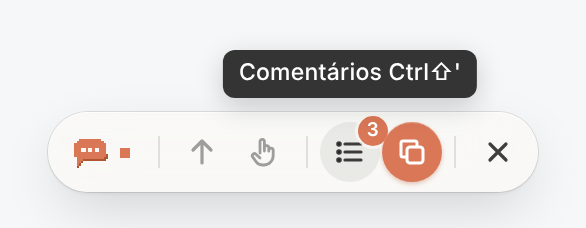
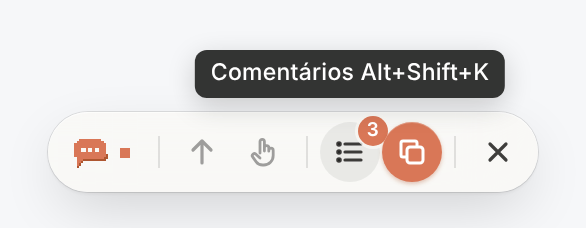
Usa ⌘/Alt + ⇧ + E e K, livres no Chrome e em todos os sistemas
O atalho da lista com L esbarrava no ChromeOS (Alt+Shift+L foca o
inicializador). No Mac, ⌥ Option não é a tecla ao lado do espaço: quem
aperta a tecla "alt/cmd" manda ⌘, e ⌘⇧D/⌘⇧L já são do Chrome.

- Atalhos: ⌘ no Mac e Alt no Windows/Linux/ChromeOS, sempre a tecla ao
  lado da barra de espaço, + ⇧ + E (modo anotação) e + ⇧ + K (lista).
  E e K estão livres no Chrome (Mac, Windows, Linux), no macOS e no
  ChromeOS, conferido no código-fonte do Chromium
- A página só trata o atalho padrão se o Chrome não conseguiu registrá-lo
  na instalação; se a pessoa apagar o atalho de propósito, ele some da
  interface em vez de continuar ativo
- Segurar Alt e depois apertar Shift desliga o modo temporário, para ele
  não piscar na tela ao usar o atalho
- Menus do ícone e página de histórico acompanham o atalho configurado
- README e imagem da barra de ações atualizados; testes cobrem o registro
  dos atalhos, as dicas da barra e o histórico

Claude-Session: https://claude.ai/code/session_01XS7tuJX1NCr2q9g3ooZEzE

Changed region(s): [[0.3072, 0.2149, 0.8601, 0.4298]]

diff --git a/src/content/main.js b/src/content/main.js
@@ -22,7 +22,7 @@
   const S = {
     alive: true,
     active: false,
-    shortcuts: null, // { toggle, panel } configurados no Chrome ('' = sem atalho)
+    shortcuts: null, // { toggle, panel, fallback } configurados no Chrome ('' = sem atalho)
     relink: null, // { id, wasActive, banner } enquanto escolhe um novo elemento para um comentário
     momentary: false, // ativo só enquanto a tecla de "segurar para comentar" está pressionada
     endMomentaryAfterComposer: false,
@@ -114,7 +114,7 @@
     if (isOwn(e)) {
       e.stopPropagation();
       if (e.type === 'focus' || e.type === 'blur' || e.type.startsWith('touch')) return;
-      // atalhos (Alt+Shift+E sem comando registrado, Esc…) continuam sendo tratados pelos nossos listeners do window
+      // atalhos (padrão sem comando registrado, Esc…) continuam sendo tratados pelos nossos listeners do window
       cloneInsideShadow(e, e.composedPath()[0]);
       return;
     }
@@ -702,6 +702,13 @@
     return k === 'Shift' ? '⇧ Shift' : '';
   }
 
+  function howToActivateHtml() {
+    const ways = [];
+    if (shortcutLabel('toggle')) ways.push(`com ${PN.shortcutHtml(shortcutLabel('toggle'))}`);
+    if (holdKeyName()) ways.push(`segurando <kbd>${holdKeyLabel()}</kbd>`);
+    return ways.length ? ways.join(' ou ') : 'pelo ícone da extensão';
+  }
+
   function isEditable(el) {
     if (!el) return false;
     return el.isContentEditable || /^(INPUT|TEXTAREA|SELECT)$/.test(el.tagName);
@@ -711,11 +718,7 @@
   // Os atalhos principais são comandos do Chrome (manifest → commands), tratados pelo service
   // worker. Aqui só mostramos o atalho configurado e, se o Chrome não tiver conseguido
   // registrá-lo (ex.: outra extensão já usa a combinação), tratamos o padrão na própria página.
-  function shortcutLabel(kind) {
-    const sc = S.shortcuts && S.shortcuts[kind];
-    if (sc) return sc;
-    return IS_MAC ? PN.SHORTCUTS[kind].mac : PN.SHORTCUTS[kind].other;
-  }
+  const shortcutLabel = (kind) => PN.shortcutLabel(S.shortcuts, kind);
 
   async function loadShortcuts() {
     try {
@@ -731,9 +734,10 @@
   }
 
   function isToggleShortcut(e) {
-    if (!S.shortcuts || !e.altKey || !e.shiftKey || e.ctrlKey || e.metaKey) return null;
-    if (!S.shortcuts.toggle && e.code === PN.SHORTCUTS.toggle.code) return 'mode';
-    if (!S.shortcuts.panel && e.code === PN.SHORTCUTS.panel.code) return 'panel';
+    const fb = S.shortcuts && S.shortcuts.fallback;
+    if (!fb) return null;
+    if (fb.toggle && PN.isDefaultShortcut(e, 'toggle')) return 'mode';
+    if (fb.panel && PN.isDefaultShortcut(e, 'panel')) return 'panel';
     return null;
   }
 
@@ -753,8 +757,11 @@
         S.holdTimer = setTimeout(startMomentary, HOLD_DELAY);
       }
       if (S.momentary) e.preventDefault();
-    } else if (S.holdPending && e.key !== holdKeyName()) {
-      cancelHold(); // outra tecla junto: é um atalho, não um "segurar"
+    } else if (e.key !== holdKeyName()) {
+      if (S.holdPending) cancelHold(); // outra tecla junto: é um atalho, não um "segurar"
+      // Alt + Shift depois de já ter ativado o "segurar": é o começo de um atalho (ex.: Alt+Shift+K),
+      // então desliga o modo temporário em vez de deixá-lo piscar na tela.
+      else if (S.momentary && !S.composer && (e.key === 'Alt' || e.key === 'Shift')) endMomentary();
     }
     if (e.key === 'Control' || e.key === 'Meta') setPassthrough(true);
     const shortcut = isToggleShortcut(e);
@@ -1336,8 +1343,9 @@
     }
     toolbarEl.classList.toggle('is-passthrough', S.passthrough);
     const panelBtn = toolbarEl.querySelector('[data-act=panel]');
-    panelBtn.dataset.tip = `Comentários  ${shortcutLabel('panel')}`;
-    toolbarEl.querySelector('[data-act=exit]').dataset.tip = `Sair  ${shortcutLabel('toggle')} ou Esc`;
+    const withKey = (text, key) => (key ? `${text}  ${key}` : text);
+    panelBtn.dataset.tip = withKey('Comentários', shortcutLabel('panel'));
+    toolbarEl.querySelector('[data-act=exit]').dataset.tip = withKey('Sair', [shortcutLabel('toggle'), 'Esc'].filter(Boolean).join(' ou '));
     const size = S.settings.toolbarSize;
     toolbarEl.classList.toggle('tb-size-m', size === 'medium');
     toolbarEl.classList.toggle('tb-size-l', size === 'large');
@@ -1445,7 +1453,7 @@
     P.t2.textContent = PN.prettyUrl(location.href);
     P.modeBtn.className = 'btn sm' + (S.active ? ' primary' : '');
     P.modeBtn.innerHTML = `${PN.icons.cursor} ${S.active ? 'Anotando' : 'Anotar'}`;
-    P.modeBtn.title = `${S.active ? 'Desativar' : 'Ativar'} modo anotação (${shortcutLabel('toggle')})`;
+    P.modeBtn.title = `${S.active ? 'Desativar' : 'Ativar'} modo anotação` + (shortcutLabel('toggle') ? ` (${shortcutLabel('toggle')})` : '');
 
     const tabDefs = [
       ['open', 'Abertos', openCount],
@@ -1504,7 +1512,7 @@
           svg(PN.icons.bubble(40, 'big')),
           h('div', null, msg),
           S.panelTab !== 'resolved' && !S.search
-            ? h('div', { html: `Ative o modo anotação com ${PN.shortcutHtml(shortcutLabel('toggle'))}${holdKeyName() ? ` ou segure <kbd>${holdKeyLabel()}</kbd>` : ''} e clique em um elemento.` })
+            ? h('div', { html: `Ative o modo anotação ${howToActivateHtml()} e clique em um elemento.` })
             : null
         )
       );

diff --git a/src/background/service-worker.js b/src/background/service-worker.js
@@ -65,16 +65,29 @@ function flashBadge(tabId, text) {
 
 // Atalhos realmente configurados (o usuário pode trocar em chrome://extensions/shortcuts).
 async function getShortcuts() {
-  const out = { toggle: '', panel: '' };
+  const out = { toggle: '', panel: '', fallback: { toggle: false, panel: false } };
   try {
     for (const c of await chrome.commands.getAll()) {
       if (c.name === 'toggle-annotation') out.toggle = c.shortcut || '';
       if (c.name === 'toggle-panel') out.panel = c.shortcut || '';
     }
+    const saved = (await chrome.storage.local.get(PN.SHORTCUT_FALLBACK_KEY))[PN.SHORTCUT_FALLBACK_KEY];
+    if (saved) out.fallback = { toggle: !!saved.toggle && !out.toggle, panel: !!saved.panel && !out.panel };
   } catch (_) {
     /* sem suporte */
   }
   return out;
+}
+
+/*
+ * Na instalação/atualização, um atalho vazio significa que o Chrome não conseguiu registrá-lo
+ * (combinação já usada por outra extensão, ou atualização que não aplica o novo padrão).
+ * Guardamos isso para a página tratar o atalho padrão por conta própria. Se depois o usuário
+ * apagar o atalho de propósito, nada é tratado: respeitamos a escolha dele.
+ */
+async function rememberShortcutFallback() {
+  const sc = await getShortcuts();
+  await chrome.storage.local.set({ [PN.SHORTCUT_FALLBACK_KEY]: { toggle: !sc.toggle, panel: !sc.panel } });
 }
 
 const withShortcut = (text, sc) => (sc ? `${text} (${sc})` : text);
@@ -87,7 +100,7 @@ function setBadge(tabId, count, active) {
   getShortcuts().then((sc) => {
     chrome.action.setTitle({
       tabId,
-      title: withShortcut(`Browser Annotation — ${active ? 'modo anotação ATIVO' : 'clique para anotar'}`, sc.toggle) + (count ? ` · ${count} em aberto nesta página` : ''),
+      title: withShortcut(`Browser Annotation — ${active ? 'modo anotação ATIVO' : 'clique para anotar'}`, PN.shortcutLabel(sc, 'toggle')) + (count ? ` · ${count} em aberto nesta página` : ''),
     });
   });
 }
@@ -120,7 +133,10 @@ chrome.runtime.onMessage.addListener((msg, sender, sendResponse) => {
       if (tabId != null) setBadge(tabId, msg.count || 0, !!msg.active);
       break;
     case 'pn:get-shortcuts':
-      getShortcuts().then(sendResponse);
+      getShortcuts().then((sc) => {
+        updateMenuTitles(sc); // o usuário pode ter trocado o atalho desde a criação do menu
+        sendResponse(sc);
+      });
       return true; // resposta assíncrona
     case 'pn:open-history':
       chrome.tabs.create({ url: HISTORY_URL, index: sender.tab ? sender.tab.index + 1 : undefined });
@@ -131,14 +147,25 @@ chrome.runtime.onMessage.addListener((msg, sender, sendResponse) => {
   sendResponse({ ok: true });
 });
 
+const menuTitles = (sc) => ({
+  'pn-toggle': withShortcut('Ativar/desativar modo anotação', PN.shortcutLabel(sc, 'toggle')),
+  'pn-panel': withShortcut('Mostrar comentários desta página', PN.shortcutLabel(sc, 'panel')),
+});
+
 async function setupMenus() {
-  const sc = await getShortcuts();
+  const titles = menuTitles(await getShortcuts());
   chrome.contextMenus.removeAll(() => {
-    chrome.contextMenus.create({ id: 'pn-toggle', title: withShortcut('Ativar/desativar modo anotação', sc.toggle), contexts: ['action'] });
-    chrome.contextMenus.create({ id: 'pn-panel', title: withShortcut('Mostrar comentários desta página', sc.panel), contexts: ['action'] });
+    chrome.contextMenus.create({ id: 'pn-toggle', title: titles['pn-toggle'], contexts: ['action'] });
+    chrome.contextMenus.create({ id: 'pn-panel', title: titles['pn-panel'], contexts: ['action'] });
     chrome.contextMenus.create({ id: 'pn-copy', title: 'Copiar comentários em aberto desta página', contexts: ['action'] });
     chrome.contextMenus.create({ id: 'pn-history', title: 'Abrir histórico completo', contexts: ['action'] });
   });
+}
+
+function updateMenuTitles(sc) {
+  for (const [id, title] of Object.entries(menuTitles(sc))) {
+    chrome.contextMenus.update(id, { title }, () => void chrome.runtime.lastError); // menu ainda não criado: ignora
+  }
 }
 
 chrome.contextMenus.onClicked.addListener((info, tab) => {
@@ -161,6 +188,7 @@ chrome.contextMenus.onClicked.addListener((info, tab) => {
 });
 
 chrome.runtime.onInstalled.addListener(async () => {
+  await rememberShortcutFallback();
   setupMenus();
   // Injeta nas abas já abertas para que os comentários existentes apareçam sem recarregar.
   const tabs = await chrome.tabs.query({});

diff --git a/src/shared/constants.js b/src/shared/constants.js
@@ -17,21 +17,52 @@
     toolbarSize: 'small',
   };
 
-  // Atalhos padrão (definidos em manifest.json → commands). Letras em vez de pontuação:
-  // a posição de ' ; . / muda entre layouts (ex.: ABNT2) e esbarra em atalhos do sistema.
-  // Alt+Shift+letra não conflita com macOS/Windows; o Chrome reserva algumas (B, C, N, P, R,
-  // W, X, Z…), por isso E (Escrever) e L (Lista).
+  // Atalhos padrão (definidos em manifest.json → commands): a tecla ao lado da barra de espaço
+  // (⌘ no Mac, Alt no Windows/Linux/ChromeOS) + Shift + letra. Letras em vez de pontuação,
+  // porque a posição de ' ; . / muda entre layouts (ex.: ABNT2) e esbarra em atalhos do sistema.
+  // Combinações com letra já usadas pelo Chrome ou pelo sistema:
+  //   - Chrome no Mac, ⌘⇧: A, B, C, D, F, G, H, I, J, L, M, N, R, T, V, W, Z
+  //   - macOS, ⌘⇧: Q (sair da sessão), Y (nota adesiva), além de 3/4/5 (capturas de tela)
+  //   - Chrome no Windows/Linux, Alt+Shift: A, B, C, I, N, P, R, T, W, X, Z
+  //   - ChromeOS, Alt+Shift: I, L, M, N, P, S, V
+  // Livres em todos: E, K, O, U. Escolhemos E (ativar) e K (lista de comentários).
   PN.SHORTCUTS = {
-    toggle: { code: 'KeyE', mac: '⌥⇧E', other: 'Alt+Shift+E' },
-    panel: { code: 'KeyL', mac: '⌥⇧L', other: 'Alt+Shift+L' },
+    toggle: { key: 'E', mac: '⇧⌘E', other: 'Alt+Shift+E' },
+    panel: { key: 'K', mac: '⇧⌘K', other: 'Alt+Shift+K' },
   };
+
+  // { toggle, panel }: true quando o Chrome não conseguiu registrar o atalho na instalação
+  // (ex.: outra extensão já usava a combinação). Nesse caso a própria página trata o padrão.
+  PN.SHORTCUT_FALLBACK_KEY = 'shortcutFallback';
 
   PN.isMac = function () {
     const p = (g.navigator && (g.navigator.userAgentData?.platform || g.navigator.platform || g.navigator.userAgent)) || '';
     return /Mac|iPhone|iPad/i.test(p);
   };
 
-  /** "⌥⇧X" → ['⌥','⇧','X'] | "Alt+Shift+X" → ['Alt','Shift','X'] */
+  PN.defaultShortcut = function (kind) {
+    return PN.isMac() ? PN.SHORTCUTS[kind].mac : PN.SHORTCUTS[kind].other;
+  };
+
+  /**
+   * Atalho a mostrar na interface. `sc` = { toggle, panel, fallback } vindo de chrome.commands.
+   * '' quando o usuário removeu o atalho em chrome://extensions/shortcuts.
+   */
+  PN.shortcutLabel = function (sc, kind) {
+    if (!sc) return PN.defaultShortcut(kind); // ainda carregando
+    if (sc[kind]) return sc[kind];
+    return sc.fallback && sc.fallback[kind] ? PN.defaultShortcut(kind) : '';
+  };
+
+  /** O evento é o atalho padrão (⌘ no Mac / Alt nos outros + Shift + letra)? Usa a letra do layout; se a tecla virar símbolo, cai no e.code. */
+  PN.isDefaultShortcut = function (e, kind, mac = PN.isMac()) {
+    const mod = mac ? e.metaKey && !e.altKey : e.altKey && !e.metaKey;
+    if (!mod || !e.shiftKey || e.ctrlKey) return false;
+    const letter = /^[a-z]$/i.test(e.key) ? e.key.toUpperCase() : /^Key[A-Z]$/.test(e.code) ? e.code.slice(3) : '';
+    return letter === PN.SHORTCUTS[kind].key;
+  };
+
+  /** "⇧⌘X" (formato do Chrome no Mac) → ['⇧','⌘','X'] | "Alt+Shift+X" → ['Alt','Shift','X'] */
   PN.shortcutKeys = function (label) {
     if (!label) return [];
     return label.includes('+') ? label.split('+') : Array.from(label);

diff --git a/src/history/history.js b/src/history/history.js
@@ -13,7 +13,7 @@
     search: '',
     sort: 'new',
     editing: null,
-    shortcuts: { toggle: '', panel: '' },
+    shortcuts: null, // { toggle, panel, fallback } — null enquanto carrega
   };
 
   function el(tag, props, ...children) {
@@ -247,8 +247,10 @@
     if (!list.length) {
       const msg = state.all.length
         ? 'Nenhum comentário corresponde aos filtros.'
-        : `Ainda não há comentários. Abra qualquer página e pressione ${state.shortcuts.toggle || 'o atalho do modo anotação'} para começar a anotar.`;
-      content.append(el('div', { class: 'empty', html: PN.icons.bubble(48) }, el('div', { text: msg })));
+        : PN.shortcutLabel(state.shortcuts, 'toggle')
+          ? `Ainda não há comentários. Abra qualquer página e pressione ${PN.shortcutHtml(PN.shortcutLabel(state.shortcuts, 'toggle'))} para começar a anotar.`
+          : 'Ainda não há comentários. Abra qualquer página e clique no ícone da extensão para começar a anotar.';
+      content.append(el('div', { class: 'empty', html: PN.icons.bubble(48) }, el('div', { html: msg })));
       return;
     }
 
@@ -344,17 +346,15 @@
 
   // ------------------------------------------------------------------ init
   async function loadShortcuts() {
-    const def = (k) => (IS_MAC ? PN.SHORTCUTS[k].mac : PN.SHORTCUTS[k].other);
     try {
-      for (const c of await chrome.commands.getAll()) {
-        if (c.name === 'toggle-annotation') state.shortcuts.toggle = c.shortcut || '';
-        if (c.name === 'toggle-panel') state.shortcuts.panel = c.shortcut || '';
-      }
+      state.shortcuts = await chrome.runtime.sendMessage({ type: 'pn:get-shortcuts' });
     } catch (_) {
-      /* ignora */
+      /* service worker indisponível: mostra os padrões */
     }
-    $('#sc-toggle').innerHTML = PN.shortcutHtml(state.shortcuts.toggle || def('toggle'));
-    $('#sc-panel').innerHTML = PN.shortcutHtml(state.shortcuts.panel || def('panel'));
+    const show = (kind) => PN.shortcutHtml(PN.shortcutLabel(state.shortcuts, kind)) || '<em>sem atalho</em>';
+    $('#sc-toggle').innerHTML = show('toggle');
+    $('#sc-panel').innerHTML = show('panel');
+    if (state.loaded) renderContent(); // a mensagem de "sem comentários" cita o atalho
   }
 
   async function load() {
@@ -364,6 +364,7 @@
     $('#opt-query').checked = !!state.settings.matchQuery;
     $('#opt-hold').value = state.settings.holdKey || 'Alt';
     $('#opt-toolbar-size').value = state.settings.toolbarSize || 'small';
+    state.loaded = true;
     render();
   }
 

diff --git a/README.md b/README.md
@@ -31,7 +31,7 @@ e copie todos os pedidos em aberto, com o contexto do código, para colar no Cla
 
 | Passo | Como |
 | --- | --- |
-| **1. Ative** | <kbd>⌥ Option</kbd>/<kbd>Alt</kbd> + <kbd>⇧</kbd> + <kbd>E</kbd> ou clique no ícone da extensão |
+| **1. Ative** | <kbd>⌘</kbd>/<kbd>Alt</kbd> + <kbd>⇧</kbd> + <kbd>E</kbd> ou clique no ícone da extensão |
 | **2. Comente** | Passe o mouse, clique no elemento, escreva e salve com <kbd>⌘</kbd>/<kbd>Ctrl</kbd> + <kbd>Enter</kbd> |
 | **3. Copie** | Clique no botão laranja da barra e cole na sua IA |
 
@@ -50,17 +50,19 @@ Para testar rápido, abra a página [`examples/demo.html`](examples/demo.html) p
 
 | Ação | Atalho |
 | --- | --- |
-| Ligar/desligar o modo anotação | <kbd>⌥ Option</kbd>/<kbd>Alt</kbd> + <kbd>⇧</kbd> + <kbd>E</kbd> |
+| Ligar/desligar o modo anotação | <kbd>⌘</kbd>/<kbd>Alt</kbd> + <kbd>⇧</kbd> + <kbd>E</kbd> |
 | Anotar só enquanto segura a tecla | segure <kbd>Alt</kbd> (<kbd>⌥</kbd> no Mac) |
 | Usar a página sem comentar (abrir menus, modais, links) | segure <kbd>Ctrl</kbd> (<kbd>⌘</kbd> no Mac) |
 | Selecionar o elemento pai / voltar ao filho | <kbd>↑</kbd> / <kbd>↓</kbd> |
 | Salvar comentário | <kbd>⌘</kbd>/<kbd>Ctrl</kbd> + <kbd>Enter</kbd> |
-| Abrir a lista de comentários | <kbd>⌥ Option</kbd>/<kbd>Alt</kbd> + <kbd>⇧</kbd> + <kbd>L</kbd> |
+| Abrir a lista de comentários | <kbd>⌘</kbd>/<kbd>Alt</kbd> + <kbd>⇧</kbd> + <kbd>K</kbd> |
 | Fechar / sair | <kbd>Esc</kbd> |
 
-Os atalhos usam letras, que ficam no mesmo lugar em qualquer layout (inclusive ABNT2), e foram escolhidos para não colidir com atalhos do macOS, do Windows nem do Chrome. Para trocá-los, abra `chrome://extensions/shortcuts`: a interface da extensão passa a mostrar o atalho que você escolher.
+Nos dois atalhos principais, a primeira tecla é a que fica ao lado da barra de espaço: <kbd>⌘</kbd> no Mac e <kbd>Alt</kbd> no Windows, Linux e ChromeOS. Eles usam letras, então não dependem de teclas de pontuação que mudam de lugar entre layouts (como no ABNT2). <kbd>E</kbd> e <kbd>K</kbd> estão entre as poucas letras livres nessas combinações no Chrome e nos sistemas (macOS, Windows, Linux e ChromeOS). Para trocá-los, abra `chrome://extensions/shortcuts`: a interface da extensão passa a mostrar o atalho que você escolher.
 
-> No Windows, <kbd>Alt</kbd> + <kbd>⇧</kbd> sozinhos trocam o idioma do teclado quando há mais de um instalado. Pressionando a letra junto isso normalmente não acontece; se acontecer no seu caso, troque o atalho em `chrome://extensions/shortcuts`.
+> - No Windows, <kbd>Alt</kbd> + <kbd>⇧</kbd> sozinhos trocam o idioma do teclado quando há mais de um instalado. Pressionando a letra junto isso normalmente não acontece.
+> - Se algum programa seu já usa a combinação (por exemplo, i3 ou sway com <kbd>Alt</kbd> como tecla principal), troque o atalho em `chrome://extensions/shortcuts`.
+> - Já tinha uma versão anterior instalada? O Chrome pode manter o atalho antigo; confira em `chrome://extensions/shortcuts`.
 
 ## Recursos
 
